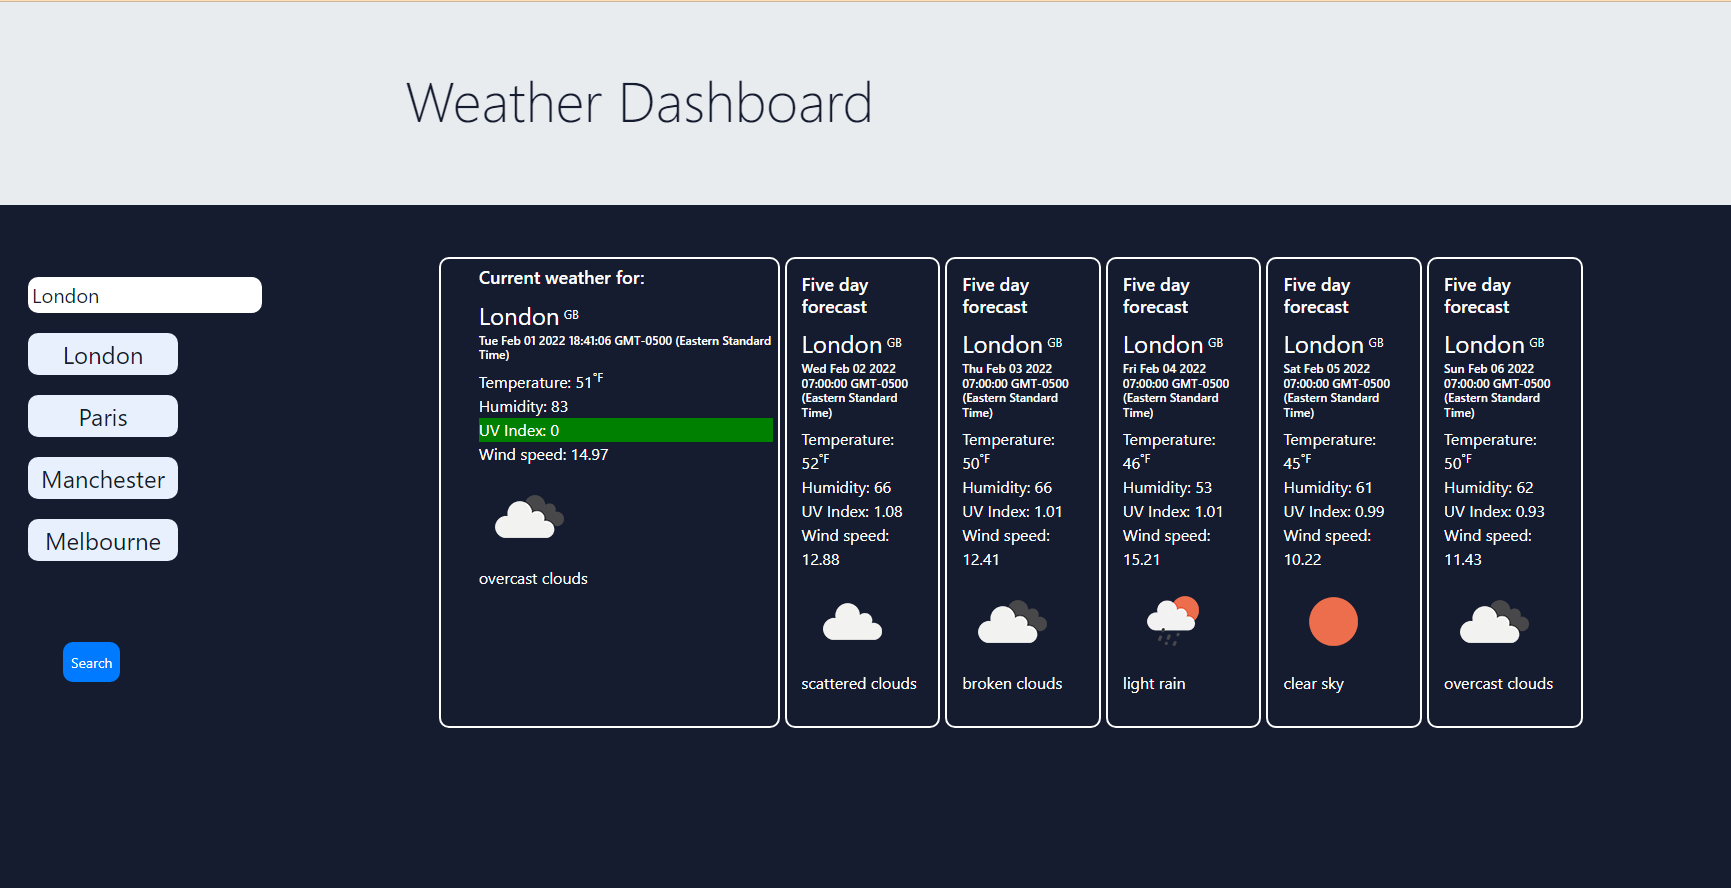
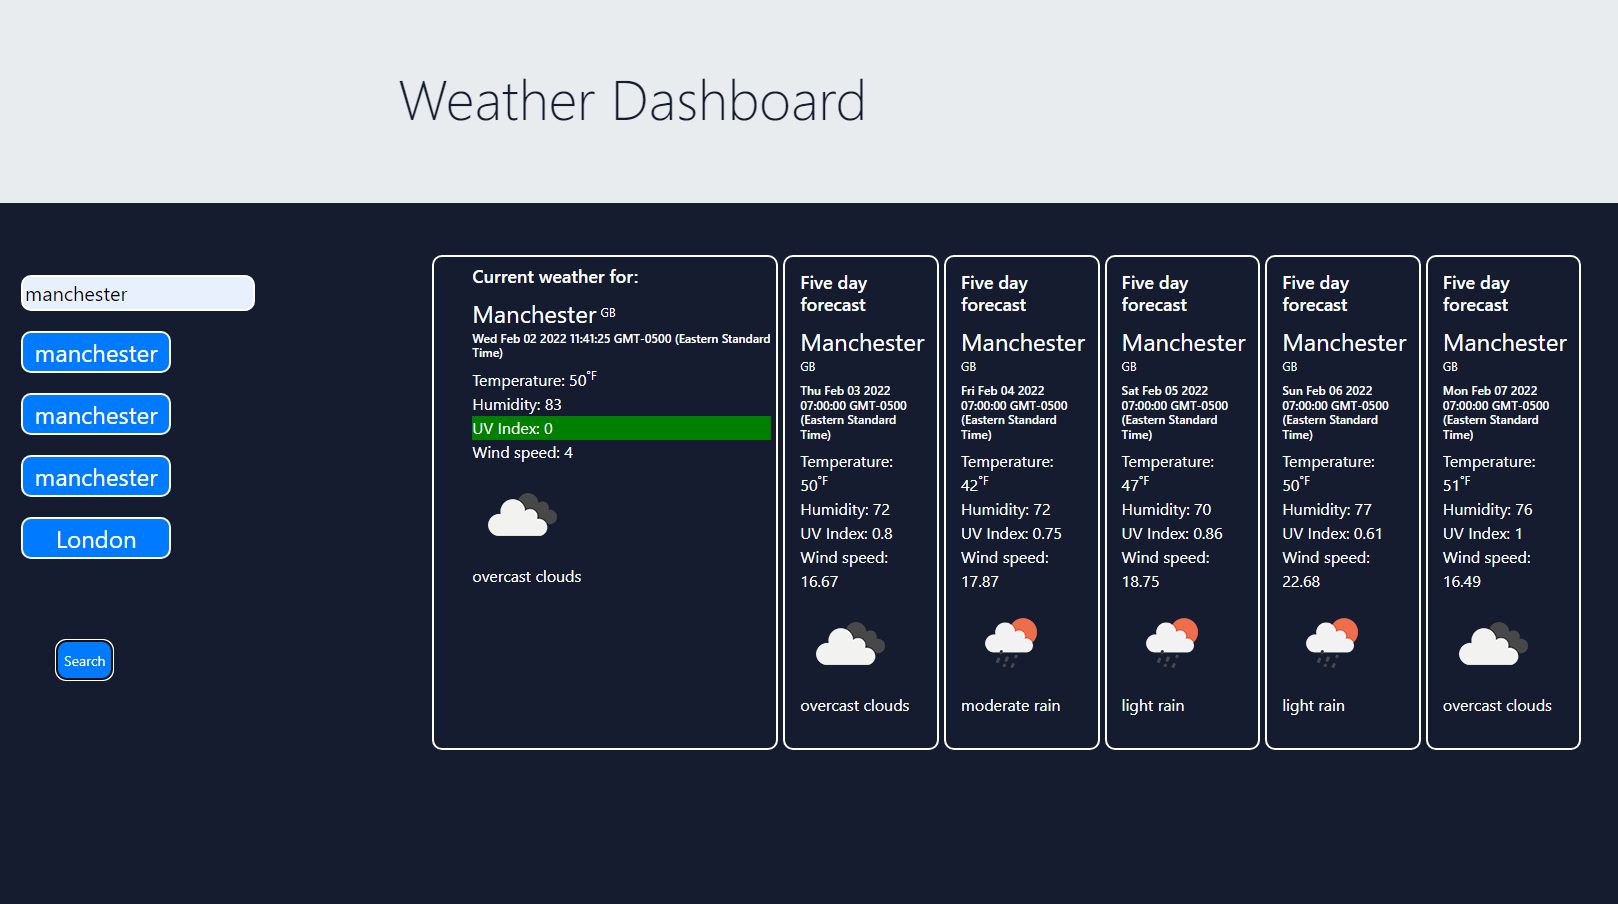
Changed some colors.

diff --git a/assets/style.css b/assets/style.css
@@ -63,13 +63,13 @@ form {
 }
 /* saved cities search button */
 .saved-cities {
-  color: var(--blue);
+  color: var(--white);
   font-size: 24px;
   font-family: 'roboto','Segoe UI', Tahoma, Geneva, Verdana, sans-serif;  
   margin-top: 20px;
-  border: 2px solid var(--whitish);
+  border: 2px solid var(--white);
   border-radius: 10px;
-  background-color: var(--whitish);
+  background-color: var(--buttonBlue);
   width: 150px; 
 }
 
